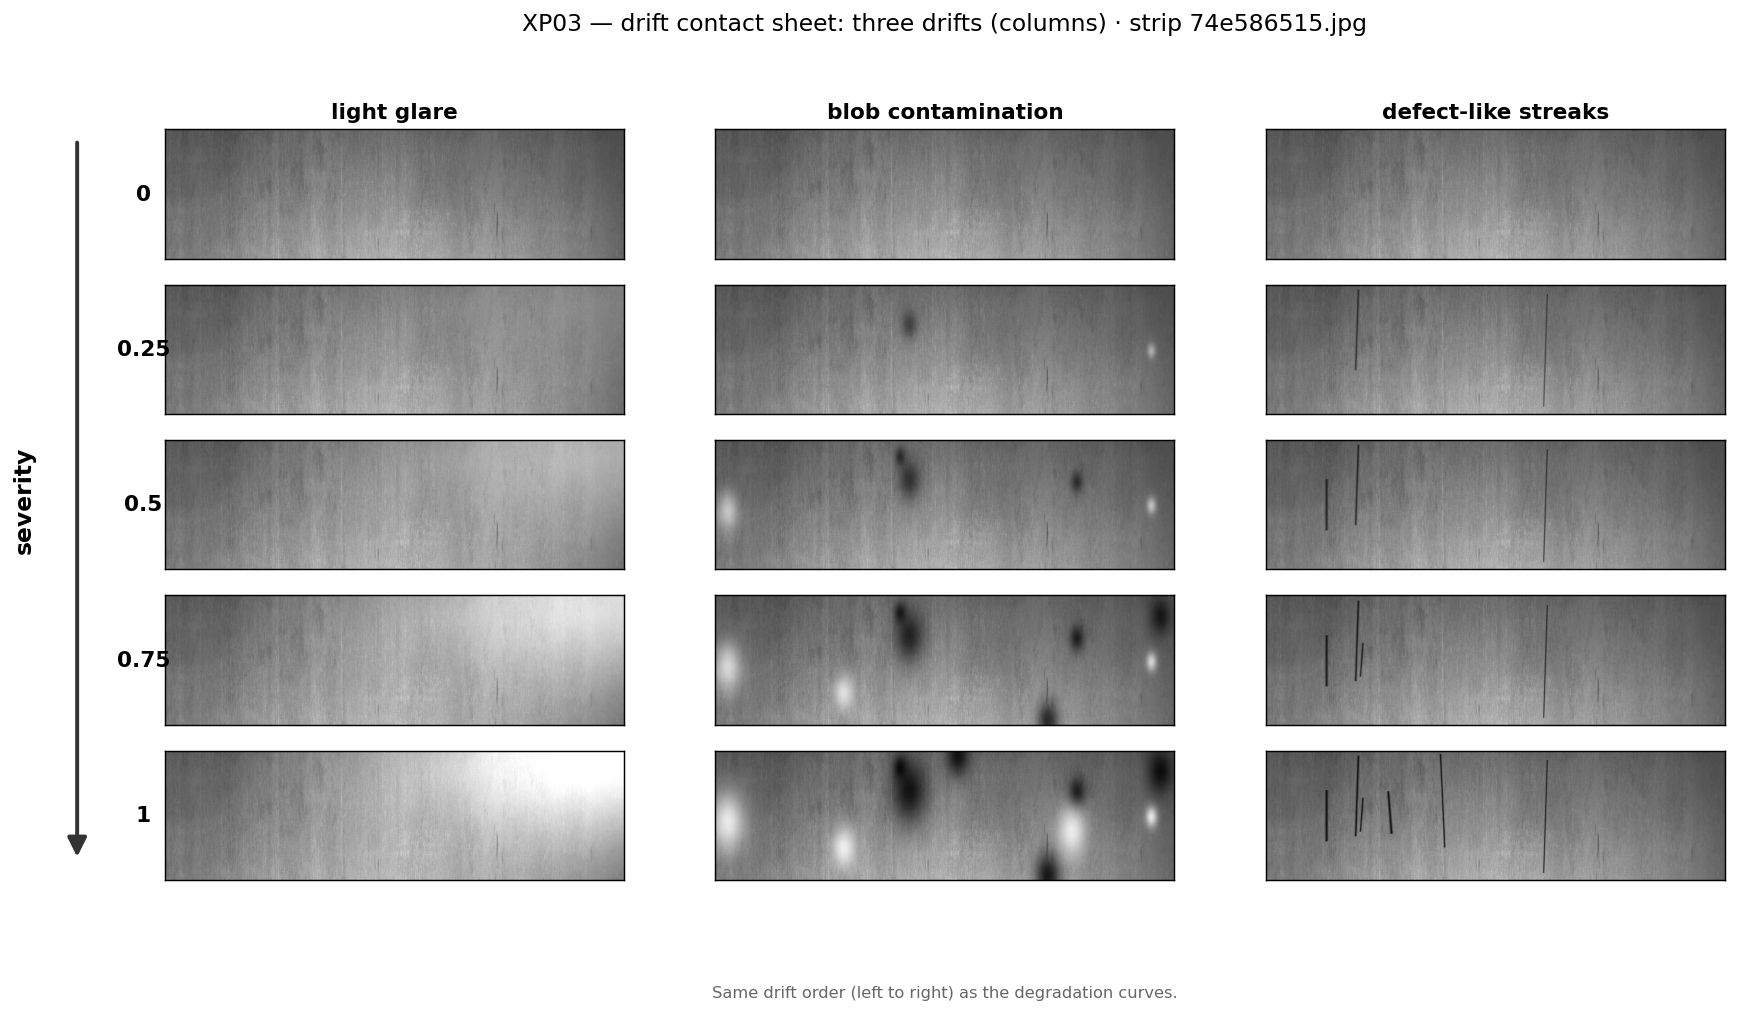
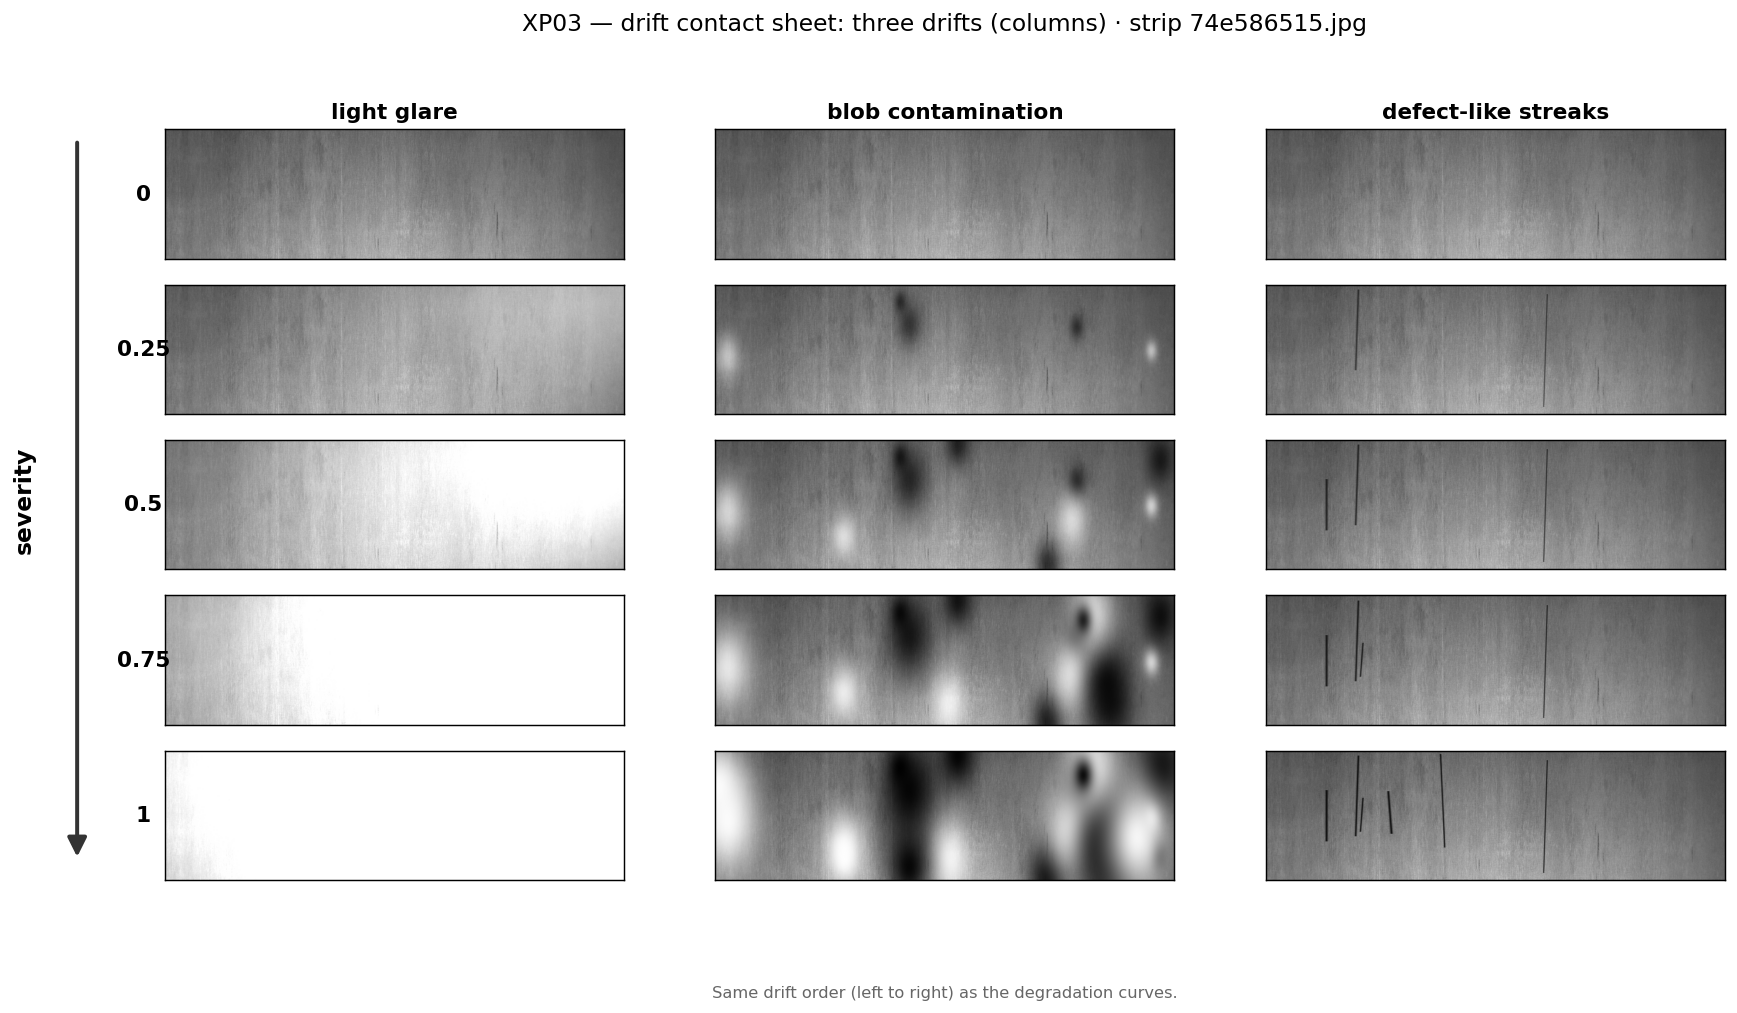
XP03: stronger glare + blob drifts, fix unified-memory OOM
Make light glare and blob contamination much stronger. New degradation:
  glare  -> catastrophic misses: recall 0.94->0.01, accuracy 0.88->0.47
  blobs  -> mild misses (occlusion): recall 0.94->0.71
  streaks-> false alarms (unchanged): specificity 0.80->0.23
Update figure captions + README narrative (blobs are no longer a harmless
control; they mildly occlude). Also fix the degradation run OOMing on the
Jetson: load images per batch instead of preloading 700 MB into unified memory,
which was competing with the U-Net activations.

diff --git a/experiments/xp03_drift/degradation.py b/experiments/xp03_drift/degradation.py
@@ -35,21 +35,30 @@ CKPT = os.path.join(ROOT, "results/raw/xp01_ckpt/best.pt")
 BASELINE = os.path.join(ROOT, "results/xp01_baseline.json")
 OUT_JSON = os.path.join(ROOT, "results/xp03_degradation.json")
 SEVERITIES = (0.0, 0.2, 0.4, 0.6, 0.8, 1.0)
-BS = 8
+BS = 4                          # small: full-strip activations share the Jetson's 7 GB
+
+
+def _load(iid):
+    return np.array(Image.open(os.path.join(TRAIN_IMG_DIR, iid)).convert("L"))
 
 
 @torch.no_grad()
-def score(model, raws, labels, ops, kind, severity, device):
-    """One full drifted-holdout pass -> clean-vs-defect confusion counts."""
+def score(model, ids, labels, ops, kind, severity, device):
+    """One full drifted-holdout pass -> clean-vs-defect confusion counts.
+
+    Images are loaded per batch (not preloaded): a 700 MB image cache would compete with
+    the U-Net's activations in the Jetson's unified memory and OOM the inference.
+    """
     thr = np.array([ops[c]["threshold"] for c in CLASS_IDS])[:, None, None]
     mp = [ops[c]["min_px"] for c in CLASS_IDS]
     tp = fp = fn = tn = 0
-    for i in range(0, len(raws), BS):
-        batch_idx = range(i, min(i + BS, len(raws)))
-        drifted = [drift.apply(raws[j], kind, severity, seed=j) for j in batch_idx]
+    for i in range(0, len(ids), BS):
+        batch = range(i, min(i + BS, len(ids)))
+        drifted = [drift.apply(_load(ids[j]), kind, severity, seed=j) for j in batch]
         x = torch.from_numpy(np.stack(drifted)).float().div_(255.0).unsqueeze(1).to(device)
         probs = sigmoid(model(x).float().cpu().numpy())              # [b,4,H,W]
-        for k, j in enumerate(batch_idx):
+        del x
+        for k, j in enumerate(batch):
             fired = any((probs[k, c] > thr[c]).sum() >= max(1, mp[c])
                         for c in range(len(CLASS_IDS)))
             true = bool(labels[j])
@@ -75,9 +84,9 @@ def main() -> int:
 
     index = load_index()
     ids = load_split()["holdout"]
-    print(f"preloading {len(ids)} holdout strips...")
-    raws = [np.array(Image.open(os.path.join(TRAIN_IMG_DIR, i)).convert("L")) for i in ids]
     labels = np.array([1 if index[i] else 0 for i in ids])
+    print(f"scoring {len(ids)} holdout strips x {len(drift.KINDS)} drifts "
+          f"x {len(SEVERITIES)} severities...")
 
     out = {"experiment": "xp03_drift", "checkpoint": os.path.relpath(CKPT, ROOT),
            "decision": "clean vs defect", "severities": list(SEVERITIES),
@@ -85,7 +94,7 @@ def main() -> int:
     for kind in drift.KINDS:
         out["curves"][kind] = {}
         for s in SEVERITIES:
-            m = score(model, raws, labels, ops, kind, s, device)
+            m = score(model, ids, labels, ops, kind, s, device)
             out["curves"][kind][f"{s:g}"] = m
             print(f"  {kind:14} sev {s:<4} acc {m['accuracy']:.3f}  "
                   f"recall {m['recall']:.3f}  spec {m['specificity']:.3f}", flush=True)

diff --git a/lib/drift.py b/lib/drift.py
@@ -35,11 +35,12 @@ def _restore(img: np.ndarray, was_uint8: bool) -> np.ndarray:
 
 
 def light_corner(image: np.ndarray, severity: float, corner: str = "top_right",
-                 max_boost: float = 0.75) -> np.ndarray:
-    """Smooth bright glare concentrated in a corner; strength scales with severity.
+                 max_boost: float = 1.6) -> np.ndarray:
+    """Smooth bright glare from a corner; strength AND reach scale with severity.
 
-    Additive glare that saturates the corner (over-exposure), which is what hides a defect
-    there. A 2-D Gaussian centred on the chosen corner gives the smooth falloff.
+    Additive glare that saturates the region to pure white (over-exposure), hiding any
+    defect under it. At high severity it spreads well across the strip, not just the
+    corner, so it wipes out a real fraction of the image.
     """
     img, u8 = _as_float(image)
     if severity <= 0:
@@ -48,15 +49,21 @@ def light_corner(image: np.ndarray, severity: float, corner: str = "top_right",
     ys, xs = np.mgrid[0:h, 0:w].astype(np.float32)
     cy = 0.0 if "top" in corner else h - 1.0
     cx = w - 1.0 if "right" in corner else 0.0
-    sig_y, sig_x = h * 0.7, w * 0.5                     # broad, so it's a wash not a dot
+    # reach grows with severity: a corner spot at low severity, a broad wash at high.
+    sig_y = h * (0.6 + 0.8 * severity)
+    sig_x = w * (0.4 + 0.6 * severity)
     mask = np.exp(-(((ys - cy) / sig_y) ** 2 + ((xs - cx) / sig_x) ** 2))
     out = img + severity * max_boost * mask
     return _restore(out, u8)
 
 
 def marks(image: np.ndarray, severity: float, seed: int = 0,
-          max_blobs: int = 10) -> np.ndarray:
-    """Random soft dark/bright blobs (lens contamination); count/size/opacity ~ severity."""
+          max_blobs: int = 20) -> np.ndarray:
+    """Random soft dark/bright blobs (lens contamination); count/size/opacity ~ severity.
+
+    Stronger than a light dusting: at high severity, many large near-opaque blobs that
+    cover a real fraction of the strip.
+    """
     img, u8 = _as_float(image)
     if severity <= 0:
         return _restore(img, u8)
@@ -67,8 +74,8 @@ def marks(image: np.ndarray, severity: float, seed: int = 0,
     out = img.copy()
     for _ in range(n):
         cy, cx = rng.uniform(0, h), rng.uniform(0, w)
-        radius = rng.uniform(8, 12 + severity * 40)
-        opacity = 0.35 + severity * 0.5
+        radius = rng.uniform(10, 18 + severity * 70)
+        opacity = 0.45 + severity * 0.5
         colour = 0.0 if rng.random() < 0.5 else 1.0     # oil (dark) or dust glare (bright)
         blob = np.exp(-(((ys - cy) ** 2 + (xs - cx) ** 2) / (2 * radius ** 2)))
         a = opacity * blob

diff --git a/experiments/xp03_drift/make_figures.py b/experiments/xp03_drift/make_figures.py
@@ -21,8 +21,8 @@ FIG_DIR = os.path.join(ROOT, "results", "figures")
 JSON = os.path.join(ROOT, "results", "xp03_degradation.json")
 INK, MUTED, GRID = "#222222", "#666666", "#dddddd"
 C = {"accuracy": "#0072B2", "recall": "#D55E00", "specificity": "#009E73"}
-TITLE = {"light_corner": "Light glare — washes defects out (misses)",
-         "marks": "Blob contamination — model shrugs it off",
+TITLE = {"light_corner": "Strong glare — defects vanish (recall → 0)",
+         "marks": "Blob contamination — occludes defects (misses)",
          "streaks": "Defect-like streaks — false alarms"}
 plt.rcParams.update({
     "figure.facecolor": "white", "axes.facecolor": "white", "axes.edgecolor": MUTED,
@@ -50,9 +50,9 @@ def main():
     axes[0].set_ylabel("clean-vs-defect score")
     fig.suptitle("XP03 — how the model's defect detection degrades as each drift ramps up",
                  fontsize=13, y=1.02)
-    fig.text(0.5, -0.02, "Severity 0 = the clean baseline. Glare drops RECALL (misses "
-             "defects); blob marks barely matter; defect-like streaks drop SPECIFICITY "
-             "(false alarms on clean steel).", ha="center", fontsize=9, color=MUTED)
+    fig.text(0.5, -0.02, "Severity 0 = the clean baseline. Glare and blobs make the model "
+             "MISS defects (recall down — washed out or covered); defect-like streaks make "
+             "it FALSE-ALARM (specificity down).", ha="center", fontsize=9, color=MUTED)
     os.makedirs(FIG_DIR, exist_ok=True)
     fig.savefig(os.path.join(FIG_DIR, "xp03_degradation.png"), dpi=130)
     print("  wrote results/figures/xp03_degradation.png")

diff --git a/experiments/xp03_drift/README.md b/experiments/xp03_drift/README.md
@@ -40,33 +40,37 @@ That is the specificity collapse below, made visible.
 
 | Drift | Accuracy | What breaks | Failure mode |
 |---|---|---|---|
-| **Light glare** | 0.88 → 0.83 | **recall** 0.94 → 0.85 | **misses** defects (washed out) |
-| **Blob contamination** | 0.88 → 0.87 | nothing | **harmless** — model shrugs it off |
-| **Defect-like streaks** | 0.88 → **0.63** | **specificity** 0.80 → **0.23** | **false alarms** (cries wolf) |
+| **Light glare** | 0.88 → **0.47** | **recall** 0.94 → **0.01** | **misses everything** (defects washed out) |
+| **Blob contamination** | 0.88 → 0.79 | recall 0.94 → 0.71 | **mild misses** (defects covered) |
+| **Defect-like streaks** | 0.88 → 0.63 | **specificity** 0.80 → **0.23** | **false alarms** (cries wolf) |
 
 Reading each curve (recall = defects caught, specificity = clean strips left alone):
 
-- **Glare washes defects out**, so the model *misses* them — recall falls. A moderate,
-  steady decline.
-- **Blob contamination barely matters.** The blobs are round; the model's defects are lines
-  and patches, so it doesn't mistake them for defects. A drift that changes the picture but
-  not the accuracy — a useful *negative control*.
-- **Defect-like streaks are catastrophic.** They look like real scratches, so the model
-  fires on them — specificity collapses from 80% to 23% (four clean strips in five now get a
-  false "defect"). Shape is what matters: the same amount of contamination is harmless as
-  blobs and ruinous as streaks.
+- **Strong glare is catastrophic.** By full severity it over-exposes most of the strip, so
+  the model detects almost nothing — recall falls off a cliff, **0.94 → 0.01**. It stops
+  firing entirely (specificity even climbs to 1.0), but it's blind: accuracy 0.88 → 0.47.
+- **Blob contamination is a milder version of the same thing.** Big dark/bright blobs *cover*
+  real defects, so some get missed — recall 0.94 → 0.71 — but the blobs don't look like
+  defects, so there are no false alarms (specificity holds ~0.88).
+- **Defect-like streaks are the opposite failure.** They look like real scratches, so the
+  model fires on them — specificity collapses from 80% to 23% (one clean strip in four now
+  gets a false "defect"). Shape is what matters: the same contamination is mild as blobs and
+  ruinous as streaks.
 
 ## Why this matters for the drift monitor
 
-These three give the monitor its test cases — and they're not all "alarm":
+Two lessons for the monitor, both from the *asymmetry*:
 
-- glare → image changed **and** accuracy dropped → the monitor **should** alarm.
-- streaks → image changed **and** accuracy collapsed → the monitor **should** alarm loudly.
-- blobs → image changed but accuracy held → the monitor should **stay quiet**.
+- **How much a drift hurts varies wildly** — glare knocks recall to ~0, blobs only to 0.71,
+  and streaks don't touch recall but wreck specificity. A monitor can't just flag "the image
+  changed"; it has to track *how much accuracy actually moved*, which differs several-fold
+  between drifts.
+- **The failure direction differs too** — glare and blobs cause **misses**, streaks cause
+  **false alarms**. A good monitor should react to all three, because all three break the
+  model, just in different ways.
 
-A monitor that fires on all three is as useless as one that fires on none. XP03 is the
-ground truth; the label-free signals (XP08) will be judged on whether they track *these*
-curves — up for glare and streaks, flat for blobs.
+XP03 is the ground truth; the label-free signals (XP08) will be judged on whether they track
+*these* curves.
 
 ## Reproduce
 

diff --git a/README.md b/README.md
@@ -23,7 +23,7 @@ Building in experiment order (XP01 → XP13). See [PLAN.md](PLAN.md) for the ful
 |---|---|---|---|
 | [XP01](experiments/xp01_baseline/) | Baseline model | ✅ done | U-Net (ResNet-34) fine-tuned on the Jetson; all 4 classes detected (recall 0.70–0.97), 88% defect/clean accuracy |
 | [XP02](experiments/xp02_calibration/) | Calibration | ✅ done | defect certainty is over-confident (says ~99%, right 75%) and all-or-nothing; temperature scaling barely helps |
-| [XP03](experiments/xp03_drift/) | Drift harness + degradation | ✅ done | glare → misses defects; blobs → harmless; defect-like streaks → false alarms (specificity 0.80 → 0.23) |
+| [XP03](experiments/xp03_drift/) | Drift harness + degradation | ✅ done | glare → misses everything (recall 0.94→0.01); blobs → mild misses; streaks → false alarms (specificity 0.80→0.23) |
 | XP07 | Calibration under drift | ⬜ | |
 | XP08 | Label-free signals | ⬜ | |
 | XP09 | **Correlation — the result** | ⬜ | |
